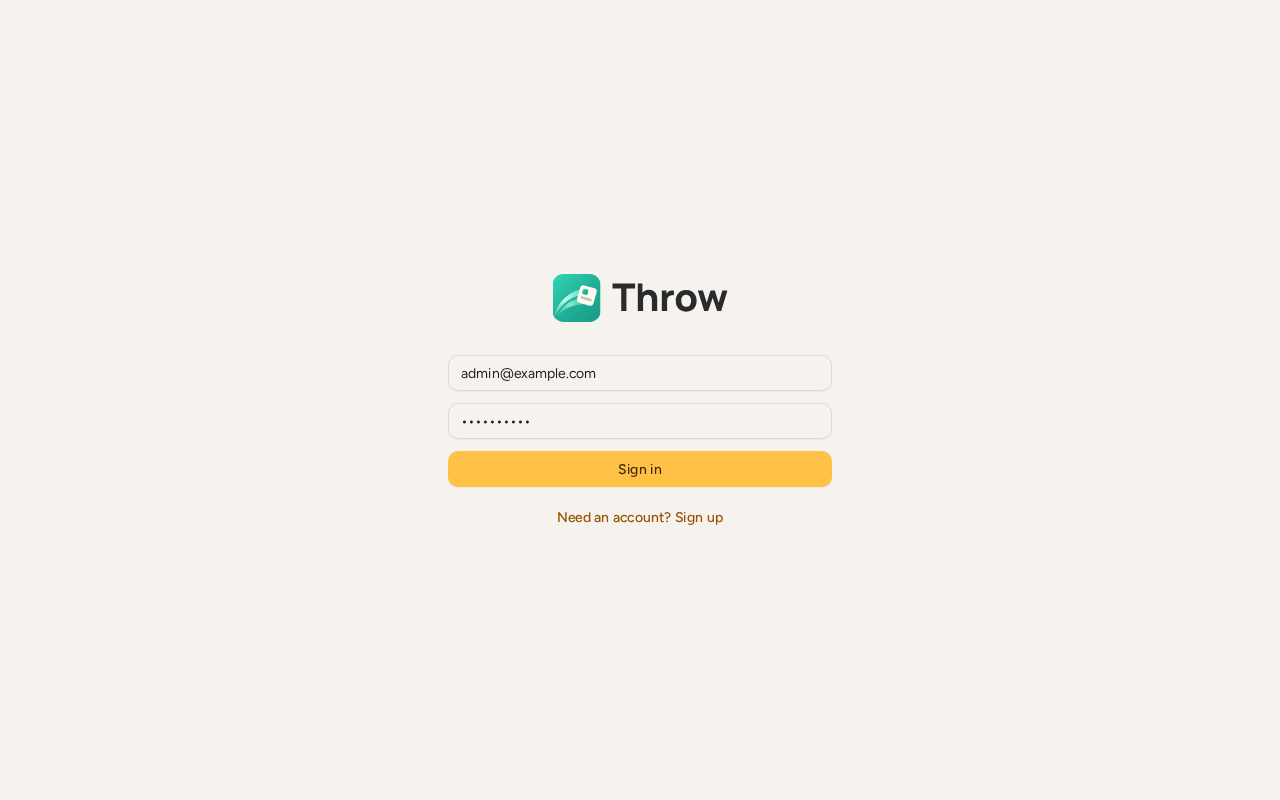
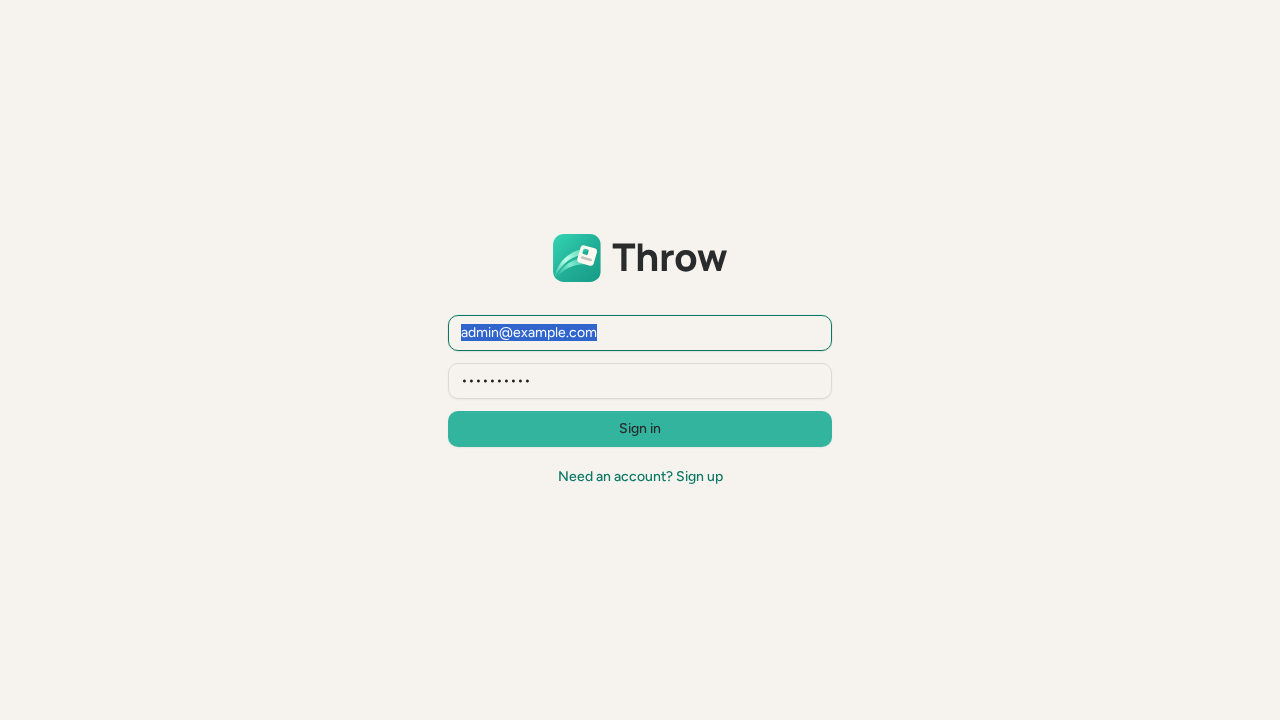
feat(branding): apply jade UI accent palette

Changed region(s): [[0.3438, 0.55, 0.6562, 0.6722], [0.3438, 0.3056, 0.5625, 0.4889]]

diff --git a/e2e/branding.spec.ts b/e2e/branding.spec.ts
@@ -1,5 +1,48 @@
-import { expect, test } from '@playwright/test';
+import { expect, type Locator, type Page, test } from '@playwright/test';
 import { signUp } from './helpers';
+
+async function contrast(locator: Locator, ink: 'color' | 'borderColor', surface: 'self' | 'page') {
+  return locator.evaluate(
+    (element, { ink, surface }) => {
+      const canvas = document.createElement('canvas');
+      const context = canvas.getContext('2d')!;
+      const luminance = (color: string) => {
+        context.fillStyle = color;
+        context.fillRect(0, 0, 1, 1);
+        const [r, g, b] = [...context.getImageData(0, 0, 1, 1).data].slice(0, 3).map((channel) => {
+          const value = channel / 255;
+          return value <= 0.04045 ? value / 12.92 : ((value + 0.055) / 1.055) ** 2.4;
+        });
+        return r! * 0.2126 + g! * 0.7152 + b! * 0.0722;
+      };
+      const style = getComputedStyle(element);
+      const foreground = luminance(style[ink]);
+      const background = luminance(
+        getComputedStyle(surface === 'self' ? element : document.body).backgroundColor,
+      );
+      return (Math.max(foreground, background) + 0.05) / (Math.min(foreground, background) + 0.05);
+    },
+    { ink, surface },
+  );
+}
+
+async function checkControlContrast(page: Page) {
+  const primary = page.getByRole('button', { name: 'Sign in', exact: true });
+  const link = page.getByRole('button', { name: 'Need an account? Sign up' });
+  expect(await contrast(primary, 'color', 'self')).toBeGreaterThanOrEqual(4.5);
+  expect(await contrast(link, 'color', 'page')).toBeGreaterThanOrEqual(4.5);
+  await primary.hover();
+  await primary.evaluate(async (element) => {
+    // Flush the hover style before waiting for its color transition's painted result.
+    getComputedStyle(element).backgroundColor;
+    await Promise.allSettled(element.getAnimations().map((animation) => animation.finished));
+  });
+  expect(await contrast(primary, 'color', 'self')).toBeGreaterThanOrEqual(4.5);
+  await page.keyboard.press('Tab');
+  const email = page.getByRole('textbox', { name: 'Email', exact: true });
+  await expect(email).toBeFocused();
+  await expect.poll(() => contrast(email, 'borderColor', 'page')).toBeGreaterThanOrEqual(3);
+}
 
 test('brand surfaces preserve artwork, contrast and usable layout on light and dark themes', async ({
   page,
@@ -31,6 +74,7 @@ test('brand surfaces preserve artwork, contrast and usable layout on light and d
       ),
     )
     .toBe(true);
+  await checkControlContrast(page);
   await page.screenshot({ path: info.outputPath('login-light.png') });
 
   // A stored preference must win over the OS, and a reload must paint the right ink.
@@ -40,6 +84,7 @@ test('brand surfaces preserve artwork, contrast and usable layout on light and d
     'src',
     '/wordmarks/throw-lockup-horizontal-stable-light-small.svg',
   );
+  await checkControlContrast(page);
   await page.screenshot({ path: info.outputPath('login-dark.png') });
 
   await page.goto('/setup');

diff --git a/apps/web/src/styles.css b/apps/web/src/styles.css
@@ -4,13 +4,13 @@
 /*
  * Theme tokens use light-dark(), so switching theme only means changing
  * `color-scheme` on <html>. Prefer these tokens over `dark:` variants.
- * Neutrals carry a slight warm tint that supports the sunrise brand colors.
+ * Warm neutrals retain the family resemblance to Catch around Throw's jade accents.
  */
 :root {
   color-scheme: light dark;
   --radius: 0.75rem;
   /*
-   * Warm graphite gives the amber mark a quiet canvas. The palette is Catch's.
+   * Catch's warm surfaces and typography stay shared; Throw's UI accents are jade.
    */
   --background: light-dark(oklch(0.965 0.008 85), oklch(0.205 0.01 70));
   --foreground: light-dark(oklch(0.24 0.016 70), oklch(0.95 0.007 85));
@@ -19,33 +19,25 @@
   --popover: light-dark(oklch(1 0 0), oklch(0.275 0.012 70));
   --popover-foreground: var(--foreground);
   --primary: var(--brand);
+  --primary-hover: color-mix(in srgb, var(--brand) 92%, white);
   --primary-foreground: var(--brand-foreground);
   --secondary: light-dark(oklch(0.93 0.009 85), oklch(0.3 0.012 70));
   --secondary-foreground: var(--foreground);
   --muted: var(--secondary);
   --muted-foreground: light-dark(oklch(0.52 0.014 70), oklch(0.72 0.01 85));
-  --accent: light-dark(oklch(0.93 0.012 85), oklch(0.32 0.015 70));
+  --accent: light-dark(#e3f2ec, #173d34);
   --accent-foreground: var(--foreground);
   --destructive: light-dark(oklch(0.56 0.2 27), oklch(0.72 0.16 22));
   --border: light-dark(oklch(0.885 0.01 85), oklch(0.34 0.012 70));
   --input: var(--border);
-  --ring: var(--brand);
+  --ring: light-dark(#0b7765, #70ddc6);
 
-  /* Catch's brand colors, until Throw has its own. */
-  --brand-amber-light: #ffe174;
-  --brand-amber-primary: #ffc247;
-  --brand-amber-deep: #ffa32b;
+  /* Explicit UI palette, independent of icon/channel tokens and their transforms. */
   --brand-cream: #fff9f0;
   --brand-charcoal: #292b2d;
-  --brand: var(--brand-amber-primary);
-  --brand-foreground: #452904;
-  --brand-link: light-dark(#955000, #ffd278);
-  --brand-gradient: linear-gradient(
-    63.435deg,
-    var(--brand-amber-light) 0%,
-    var(--brand-amber-primary) 55%,
-    var(--brand-amber-deep) 100%
-  );
+  --brand: #20ae96;
+  --brand-foreground: var(--brand-charcoal);
+  --brand-link: light-dark(#0b7765, #70ddc6);
 
   /* Frosted material for the dock, the navigation rail and sheets. */
   --glass: light-dark(oklch(0.99 0.005 85 / 0.66), oklch(0.29 0.012 70 / 0.6));
@@ -194,6 +186,7 @@
   --color-popover: var(--popover);
   --color-popover-foreground: var(--popover-foreground);
   --color-primary: var(--primary);
+  --color-primary-hover: var(--primary-hover);
   --color-primary-foreground: var(--primary-foreground);
   --color-secondary: var(--secondary);
   --color-secondary-foreground: var(--secondary-foreground);

diff --git a/apps/web/src/components/ui/button.tsx b/apps/web/src/components/ui/button.tsx
@@ -8,7 +8,7 @@ const buttonVariants = cva(
   {
     variants: {
       variant: {
-        default: 'bg-primary text-primary-foreground shadow-xs hover:bg-primary/90',
+        default: 'bg-primary text-primary-foreground shadow-xs hover:bg-primary-hover',
         destructive: 'bg-destructive text-white shadow-xs hover:bg-destructive/90',
         outline: 'border bg-background shadow-xs hover:bg-accent hover:text-accent-foreground',
         secondary: 'bg-secondary text-secondary-foreground shadow-xs hover:bg-secondary/80',

diff --git a/apps/web/vite.config.ts b/apps/web/vite.config.ts
@@ -51,7 +51,7 @@ export default defineConfig(({ command }) => ({
         name: 'Throw',
         short_name: 'Throw',
         description: 'Self-hosted project management that works offline.',
-        theme_color: '#ffc247',
+        theme_color: '#20ae96',
         background_color: '#f7f6f2',
         display: 'standalone',
         start_url: '/',

diff --git a/docs/branding-validation.md b/docs/branding-validation.md
@@ -11,11 +11,12 @@ Validated on 2026-10-13. Android project creation remains deferred by request.
 | `apps/web/public/` | Stable, preview and dev icons, favicons, touch/maskable assets and portable outlined lockups/monochrome symbols |
 | `branding/android/app/src/` | Staged density PNGs and shared API 26/33 adaptive XML; no Android project generated |
 | `apps/web/vite.config.ts`, `apps/web/index.html` | Existing channel selection wired to manifest icons, favicons and Apple touch icons |
+| `apps/web/src/styles.css`, `apps/web/src/components/ui/button.tsx` | Approved jade actions, links, focus and selected/hover states with a readable primary-button hover fill |
 | `apps/web/src/components/BrandLockup/` | Responsive, theme-aware supplied artwork with detail/minimum-size handling and tests |
 | `apps/web/src/routes/login.tsx`, `setup.tsx`, `_app.tsx` | Branding on existing sign-in, server-setup and signed-in header surfaces |
 | `scripts/brand-assets.test.ts`, `e2e/branding.spec.ts` | Favicon, mask/safe-zone, themed-alpha, theme-preference and narrow/offline-layout checks |
 | `package.json`, `pnpm-lock.yaml`, `biome.json` | Locked renderer dependency, generation/integrity commands and protection against formatting the source package |
-| `docs/branding.md`, `docs/decisions/0001-stack.md`, this report and `docs/branding/` | Integration/regeneration instructions, application-theme distinction, validation and painted screenshots |
+| `docs/branding.md`, `docs/spec.md`, `docs/decisions/0001-stack.md`, this report and `docs/branding/` | Integration/regeneration instructions, explicit UI palette, validation and painted screenshots |
 
 Catch's local integration, branding documentation/generator and active
 [PR #112](https://github.com/iiloni/catch/pull/112) were inspected read-only. No Catch file
@@ -42,12 +43,16 @@ E2E_FIREFOX=1 ./scripts/dev.sh e2e e2e/branding.spec.ts --workers=1
 - Required repository check passes: platform integrity, lint, typechecks, unit tests and
   production builds. Nine lockup tests and three raster/ICO/alpha tests cover this change.
 - Stable, preview and dev builds pass. Generated HTML favicon/touch links and manifest
-  icon paths were checked for each channel. Names, launch URL and theme/background colors
-  remain unchanged. The maskable purpose and icon/lockup precache entries were verified.
+  icon paths were checked for each channel. Names, launch URL and background colors remain
+  unchanged; the manifest theme color now uses the approved jade `#20AE96`. The maskable
+  purpose and icon/lockup precache entries were verified.
 - Targeted Chromium auth/branding: five passed, one existing mobile redirect case skipped
   because it is layout-independent. The final branding run, including the 320 px header
   with an unsaved offline write, passes on Chromium desktop, Chromium's Android layout and
   Firefox: three passed. Browser versions: Chrome for Testing 153.0.8010.12, Firefox 155.0.
+- The final jade-palette run checks normal and hovered primary-button text and link text
+  against a 4.5:1 contrast floor, plus keyboard-focused input borders against a 3:1 floor,
+  on actual light/dark rendered surfaces in all three browser/layout projects.
 - Ordinary icons, small/micro favicons, maskable surfaces, composed adaptive layers,
   shared themed alpha and light/dark lettering were visually inspected for all channels.
   Painted application screenshots were inspected as well.
@@ -78,5 +83,6 @@ masking, tinting, launcher presentation and system splash must be verified after
 
 No installed-PWA OS icon refresh or physical iOS touch-icon test was performed. Native
 WebView behavior is untested; setup/sign-in use the same web SVG surfaces. The source
-package's font/license remains provenance only, and application UI colors and typography
-remain unchanged.
+package's font/license remains provenance only. The separately approved jade UI accents
+are authored in application CSS; warm surfaces, typography, project/tag colors and
+semantic error colors retain the existing values. Canonical/channel artwork is unchanged.

diff --git a/docs/branding.md b/docs/branding.md
@@ -7,8 +7,25 @@ the artwork. Do not edit public SVG copies or generated platform resources.
 
 Stable is jade, preview is the supplied purple/indigo, and local development is light
 blue. The preview tokens are deliberately retained even though Catch has subsequently
-corrected its own preview colors. No application theme, font, control or project color
-comes from these channel paints. All application UI override objects remain empty.
+corrected its own preview colors. Application UI overrides in the supplied package remain
+empty. Throw's separately approved UI palette is authored in `apps/web/src/styles.css`,
+without importing icon/channel paints into application theming.
+
+## Application palette
+
+All builds use the same jade UI accents, independent of their installation artwork:
+
+| Role | Light | Dark |
+| --- | --- | --- |
+| Primary action fill | `#20AE96` | `#20AE96` |
+| Primary action lettering | `#292B2D` | `#292B2D` |
+| Links and keyboard focus | `#0B7765` | `#70DDC6` |
+| Selected/hover surface | `#E3F2EC` | `#173D34` |
+
+Primary action hover adds 8% white to jade rather than reducing fill opacity, preserving
+the charcoal lettering's contrast on dark surfaces. The manifest theme color is jade;
+browser light/dark bar backgrounds stay warm. Neutral surfaces, glass, typography,
+project/tag colors and error colors retain the existing family design.
 
 ## Generation
 
@@ -37,8 +54,9 @@ updated package. Reference PNGs never supply production artwork.
 
 Vite's existing `THROW_CHANNEL` selects stable root paths, `/preview/` or `/dev/`; unset
 means dev and unsupported values fail through the existing channel parser. Channel paths
-keep browser caches separate. PWA names, launch URL, display mode, browser theme colors,
-manifest theme/background colors, build metadata and distribution rules are unchanged.
+keep browser caches separate. PWA names, launch URL, display mode, browser bar colors,
+manifest background color, build metadata and distribution rules are unchanged. The
+manifest theme color uses the approved jade primary action fill.
 All generated public artwork is precached by the existing service worker.
 
 | Surface | Mechanical source |

diff --git a/docs/decisions/0001-stack.md b/docs/decisions/0001-stack.md
@@ -32,10 +32,10 @@ device, update prompts, release channels and scripts, and the Android project.
 
 - A fix to copied code (the outbox, the shape proxy, the worktree scripts) has to be made
   in both repositories by hand.
-- Application colors and design tokens remain Catch's, including its amber control
-  accent. Throw's own Arc Forward artwork has jade, preview purple and dev blue treatments
-  for brand assets only; it does not override the application palette or typography
-  (see [branding](../branding.md)).
+- Application surfaces, typography and project/tag colors remain Catch's. Throw's UI uses
+  an explicitly authored jade accent palette for controls, links, focus and selected
+  states in every build. Arc Forward's jade, preview purple and dev blue artwork remains
+  independent of the UI tokens (see [branding](../branding.md)).
 - Development ports and Compose project names differ from Catch's so both run on one
   machine. The production Compose file defaults to port 3100 for the same reason.
 - Running both apps from one Compose stack against one Postgres container is intended

diff --git a/docs/spec.md b/docs/spec.md
@@ -35,6 +35,9 @@ integrations.
 - A companion app with its own data model, not a second client over Catch's notes.
 - Separate repository, separate server, separate client and fully decoupled releases.
 - Separate accounts in each app. No shared auth database.
+- Shared warm surfaces, typography and project/tag colors; Throw uses jade accents for
+  actions, links, keyboard focus and selected states. The UI palette is the same across
+  builds; preview purple and dev blue identify artwork only.
 - No link to Catch in the first version. "Promote a note to a task" is a later idea.
 - The repository starts from Catch's skeleton (auth, sync, outbox, local persistence, design
   tokens, scripts). Shared packages are extracted only once duplication hurts.
